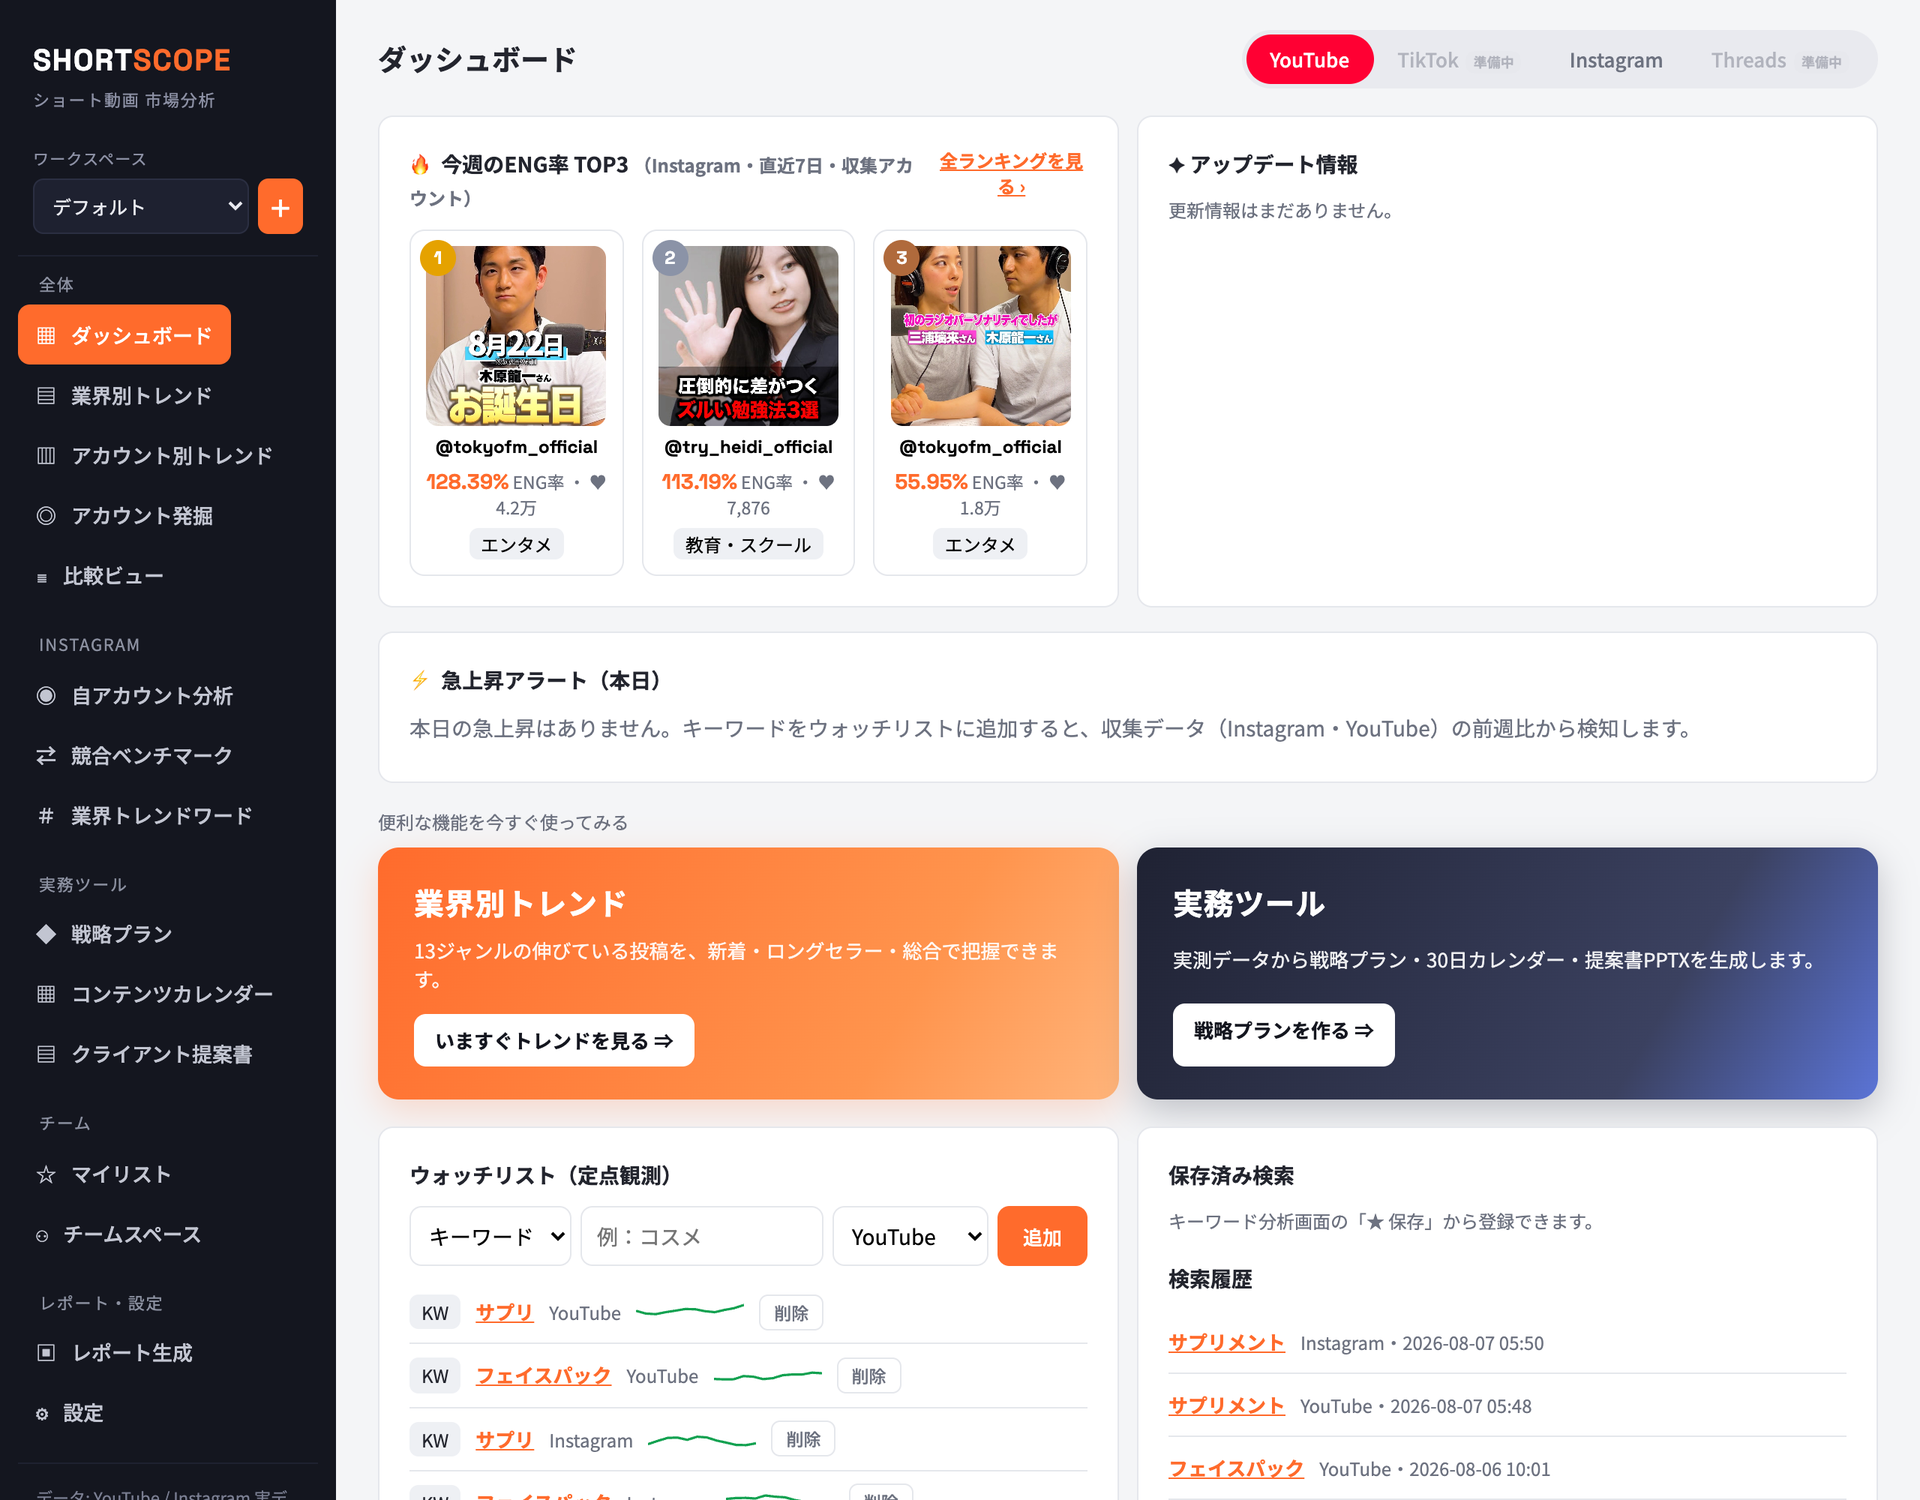
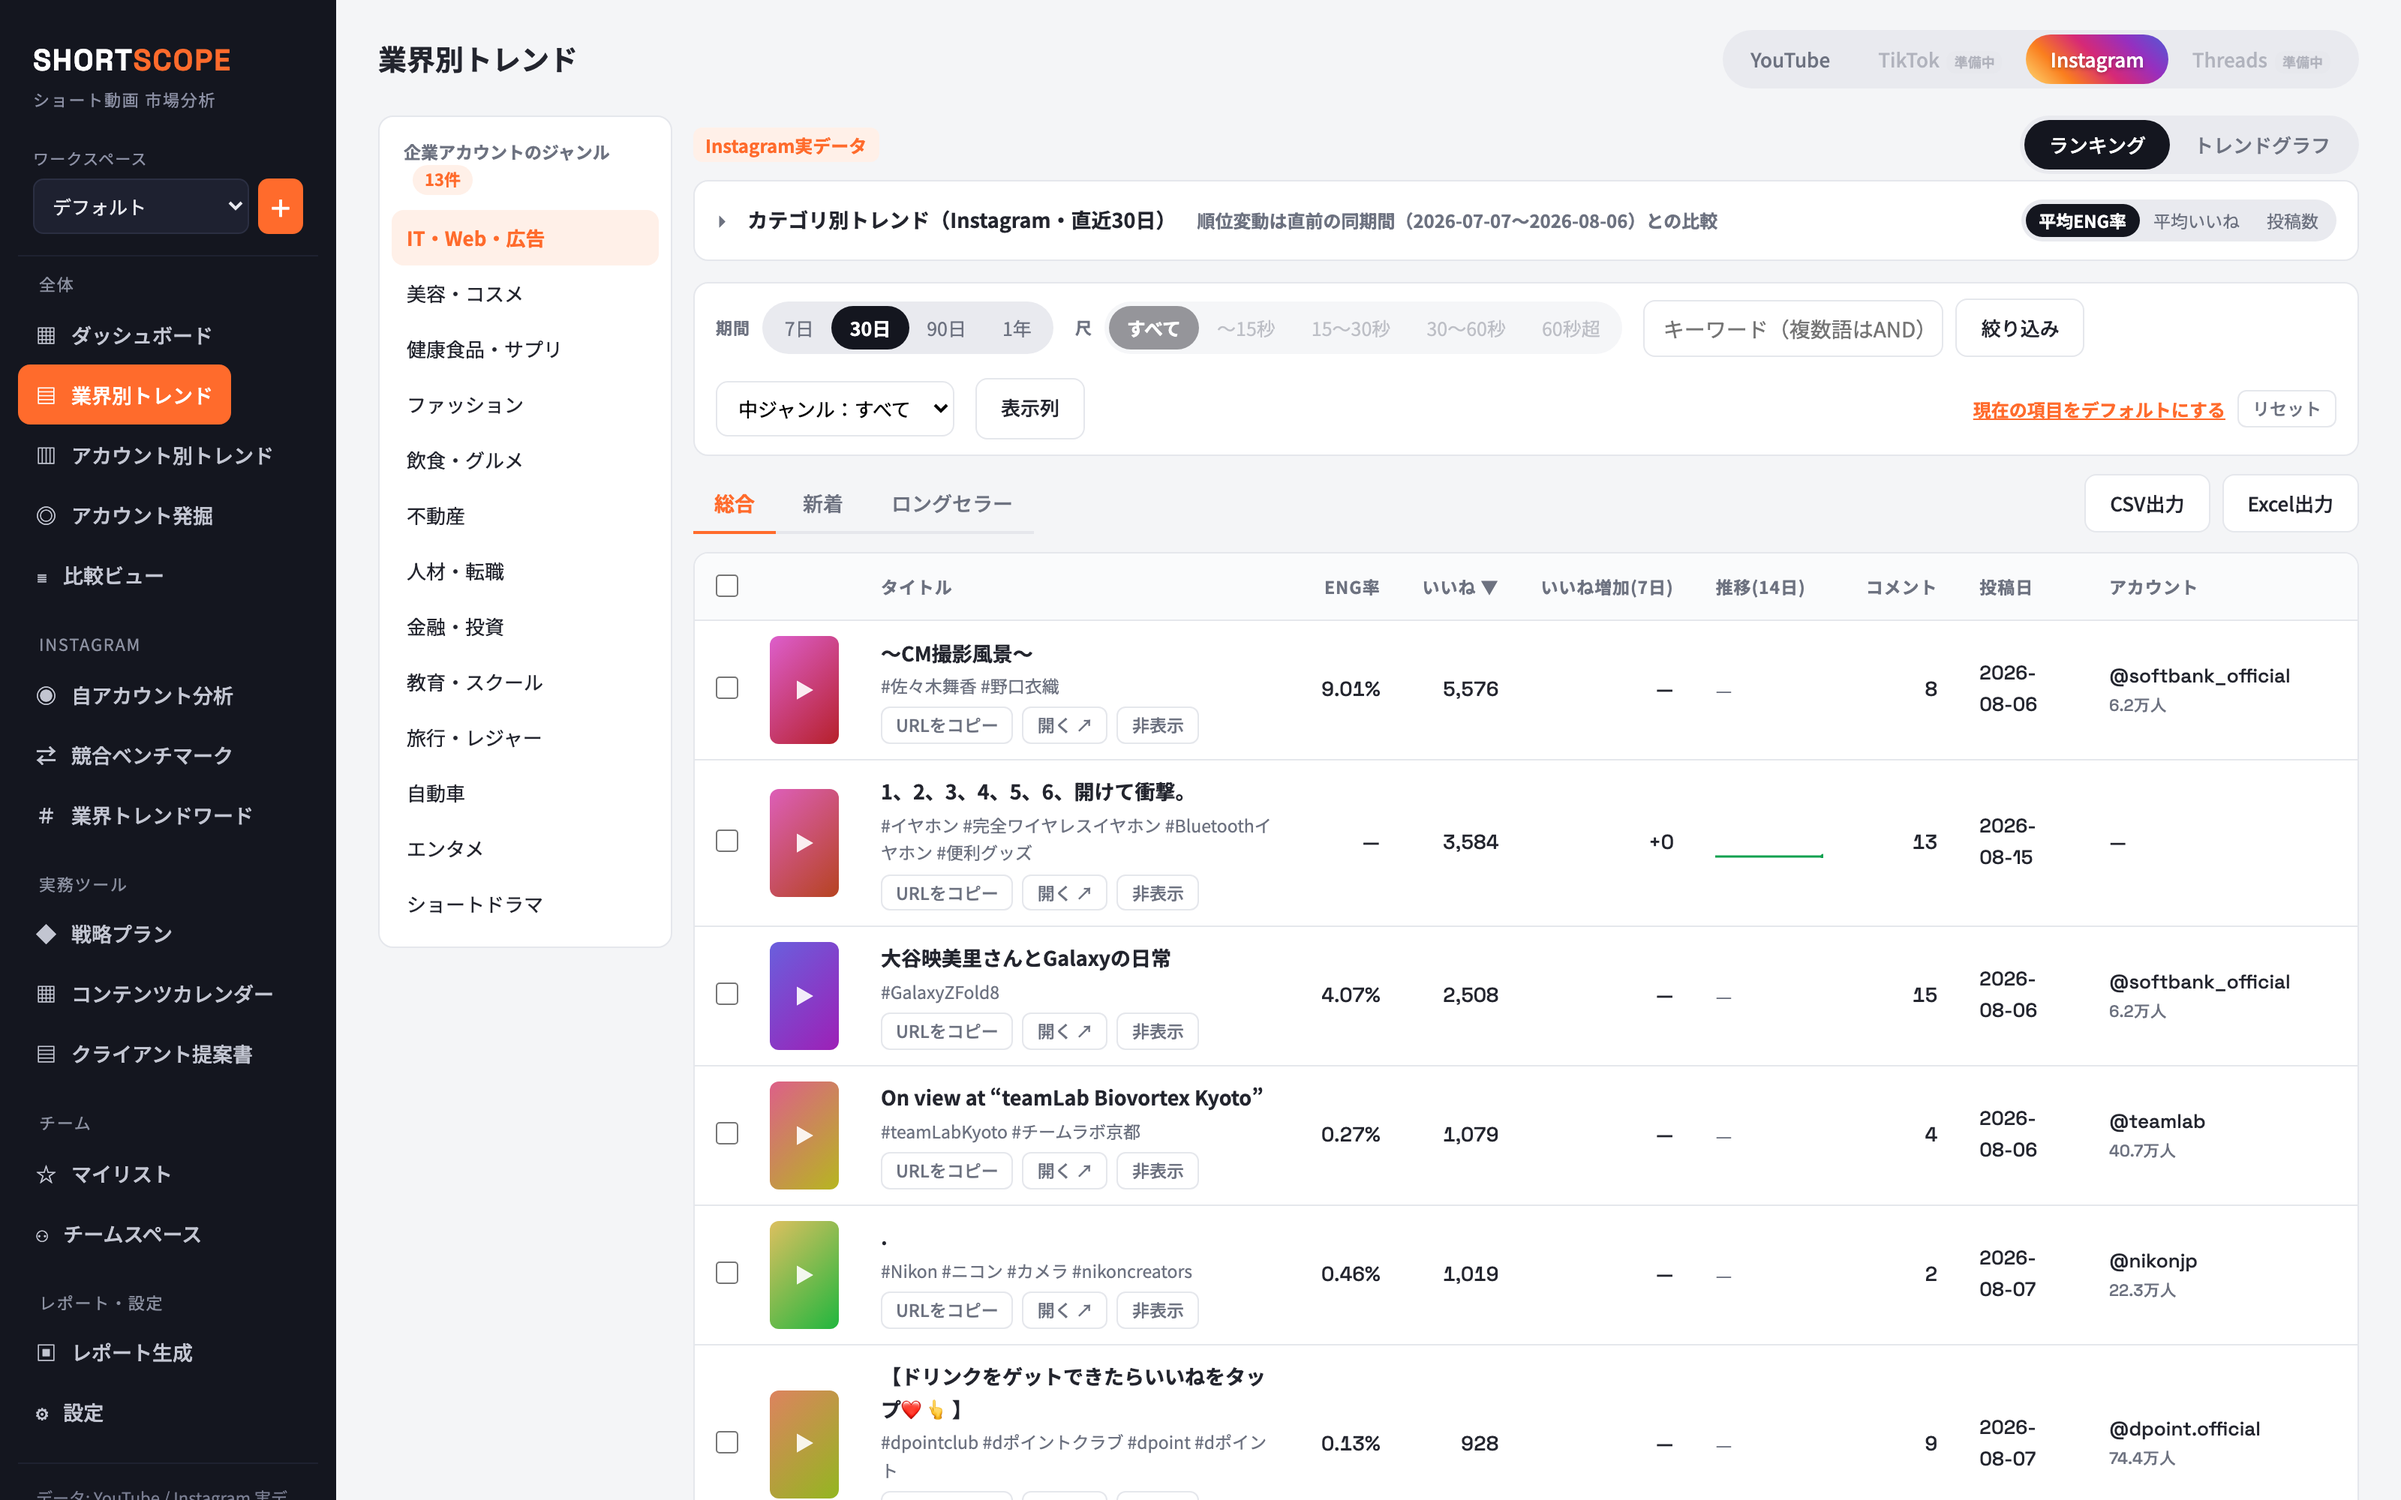
demo: How oEmbed Read セクションのスクショを業界別トレンド(Instagram・プレースホルダ)に差替・説明文更新
TOP3実サムネ(business_discovery由来CDN)が申請ストーリーと矛盾するため、プレースホルダ列が
写る業界別トレンド(Instagramタブ)に差替。文言を「現在プレースホルダ→承認後 thumbnail_url 描画」に変更。

diff --git a/index.html b/index.html
@@ -100,11 +100,11 @@
 
   <!-- d. How oEmbed Read is used -->
   <h2>How Meta oEmbed Read is used in SHORTSCOPE</h2>
-  <p class="lead">SHORTSCOPE shows industry-segmented ranking lists of Instagram Reels. In each list, a post's thumbnail image is fetched and displayed via <b>Meta oEmbed Read</b> (<code>thumbnail_url</code>). Below is the authenticated product:</p>
-  <p class="jp">SHORTSCOPEは業界別のショート動画ランキングを表示し、各投稿のサムネイル画像を Meta oEmbed Read（thumbnail_url）で取得・表示します。以下は認証済みの本番プロダクト画面です。</p>
+  <p class="lead">SHORTSCOPE shows industry-segmented ranking lists of Instagram Reels. <b>The thumbnail column currently shows placeholders; once oEmbed Read is approved, <code>thumbnail_url</code> from the API renders here.</b> Below is the authenticated product (Instagram tab):</p>
+  <p class="jp">SHORTSCOPEは業界別のショート動画ランキングを表示します。サムネイル列は現在プレースホルダで、oEmbed Read が承認されれば API の thumbnail_url がここに描画されます。以下は認証済みの本番プロダクト画面（Instagramタブ）です。</p>
   <figure class="shot">
-    <img src="product-shot.png" alt="SHORTSCOPE product — ranking list with Instagram post thumbnails">
-    <figcaption><b>Approved oEmbed Read will render post thumbnails here.</b> ／ 承認された oEmbed Read により、各投稿のサムネイルがこのランキング一覧に表示されます。</figcaption>
+    <img src="product-shot.png" alt="SHORTSCOPE product — Industry Trend list (Instagram) with placeholder thumbnails">
+    <figcaption><b>The thumbnail column currently shows placeholders; once oEmbed Read is approved, thumbnail_url from the API renders here.</b> ／ サムネイル列は現在プレースホルダです。oEmbed Read 承認後、API の thumbnail_url がここに描画されます。</figcaption>
   </figure>
 
   <!-- e. Footer -->
